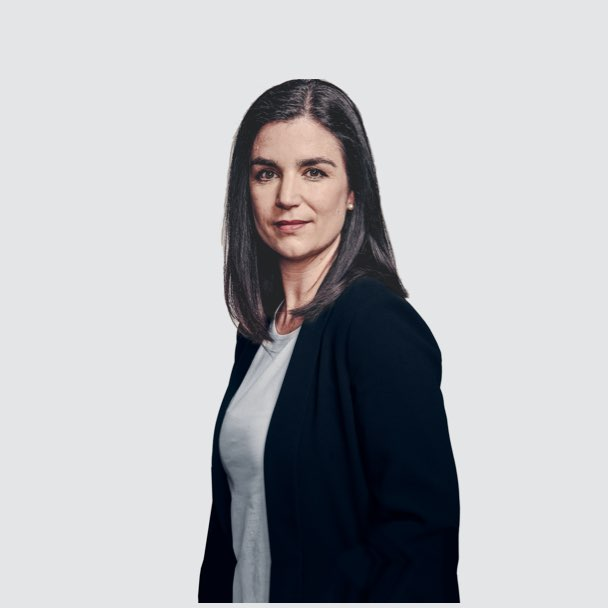
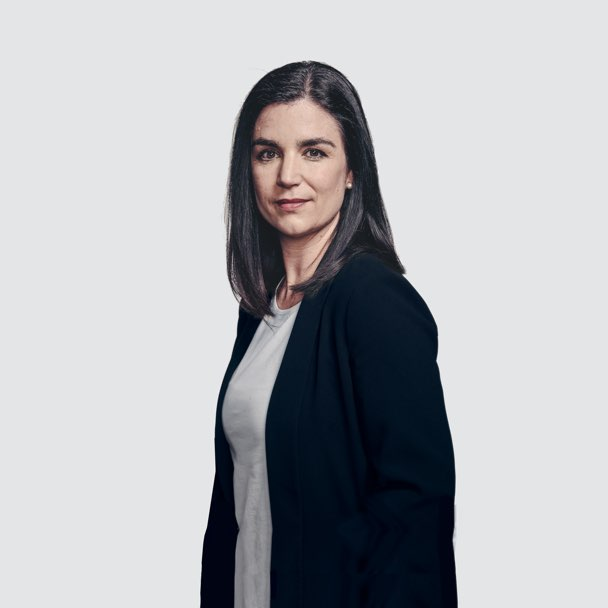
feat: susana pics + markdown, headlines

Changed region(s): [[0.3125, 0.0938, 0.7812, 1.0], [0.7188, 0.5625, 0.75, 0.6562], [0.7188, 0.6875, 0.75, 0.75]]

diff --git a/src/components/Markdown/markdown.scss b/src/components/Markdown/markdown.scss
@@ -35,7 +35,7 @@
   font-weight: 300;
   margin-bottom: 1.5rem;
   padding-top: 0.5rem;
-  padding-right: 9%;
+  padding-right: 10%;
 }
 
 .background--inverse .page-p,

diff --git a/src/content/community/Susana/Susana.md b/src/content/community/Susana/Susana.md
@@ -41,7 +41,7 @@ Born and raised in Spain, in a family of bankers and lawyers, naturally dreamed 
 
 <column md="6" lg="8" offset_lg="1">
 
-The challenge of raising children as working moms is hard enough. But wanting to be a  super successful individual who happens to also be a mom, is altogether more complicated. When we simply see ourselves as working moms (I have not once heard a man refer to himself as a working dad), we are already selling ourselves short. It reads as, “we are moms, who, so sorry, work.” The term seems infused by guilt, by fear, as if we needed to apologize. As women, we sometimes jump to the conclusion that compromise is inevitable, that success will come at the expense of our children’s happiness. That derives from another misconception. We presume that to succeed, one must work “like a man,” keeping long hours, missing out on what happens at home and school.  And that to be a good mom, one cannot expect to do all we need to do at work. We somehow see one has to come at the expense of the other: succeeding at home means not succeeding so much at work, and vice versa. I believe this is a false compromise—if we are able to shape work in a more flexible way, one that is parent friendly. It has bene my experience that model can yield success both at work and at home.
+The challenge of raising children as working moms is hard enough. But wanting to be a super successful individual who happens to also be a mom, is altogether more complicated. When we simply see ourselves as working moms (I have not once heard a man refer to himself as a working dad), we are already selling ourselves short. It reads as, “we are moms, who, so sorry, work.” The term seems infused by guilt, by fear, as if we needed to apologize. As women, we sometimes jump to the conclusion that compromise is inevitable, that success will come at the expense of our children’s happiness. That derives from another misconception. We presume that to succeed, one must work “like a man,” keeping long hours, missing out on what happens at home and school. And that to be a good mom, one cannot expect to do all we need to do at work. We somehow see one has to come at the expense of the other: succeeding at home means not succeeding so much at work, and vice versa. I believe this is a false compromise—if we are able to shape work in a more flexible way, one that is parent friendly. It has bene my experience that model can yield success both at work and at home.
 
 </column>
 </grid>
@@ -55,14 +55,14 @@ The challenge of raising children as working moms is hard enough. But wanting to
 
 <column md="6" lg="8" offset_lg="1">
 
-I would love to see our women designers major on two things. First is embracing their female traits to the fullest, while resisting falling in the role I call “team mom.” Women should absolutely lean into their strong emotional intelligence, intuition, and sensibility, as that will yield incredible results. However, I hope women can do that without having to become the sole nurturers, organizers, cheerleaders, conflict resolvers, happiness keepers. Yes, teams need to be organized and nurtured, but achieving that should be a mission for all, not just women. Lead fully as a woman yet resist the more submissive caretaking role. 
+I would love to see our women designers major on two things. First is embracing their female traits to the fullest, while resisting falling in the role I call “team mom.” Women should absolutely lean into their strong emotional intelligence, intuition, and sensibility, as that will yield incredible results. However, I hope women can do that without having to become the sole nurturers, organizers, cheerleaders, conflict resolvers, happiness keepers. Yes, teams need to be organized and nurtured, but achieving that should be a mission for all, not just women. Lead fully as a woman yet resist the more submissive caretaking role.
 
 My second aspiration for women designers at IBM is to focus on creating brilliant, mind-blowing design. The work in the end will speak for itself, and IBM really will be transformed through the smartest, most innovative, most delightful design.
 
 </column>
 </grid>
 
-<grid className="community__grid" background="gray-10">
+<!-- <grid className="community__grid" background="gray-10">
 <column sm="3" md="3" lg="3">
 
 <span className="community__prompt">What are you doing to make IBM a better place to work for women in design?</span>
@@ -74,7 +74,7 @@ My second aspiration for women designers at IBM is to focus on creating brillian
 Lorem ipsum dolor sit amet, consectetur adipiscing elit, sed do eiusmod tempor incididunt ut labore et dolore magna aliqua. Ut enim ad minim veniam, quis nostrud exercitation ullamco laboris nisi ut aliquip ex ea commodo consequat. Duis aute irure dolor in reprehenderit in voluptate velit esse cillum dolore eu fugiat nulla pariatur. Excepteur sint occaecat cupidatat non proident, sunt in culpa qui officia deserunt mollit anim id est laborum.
 
 </column>
-</grid>
+</grid> -->
 
 <grid className="community__grid" background="gray-10">
 <column sm="3" md="3" lg="3">
@@ -85,9 +85,9 @@ Lorem ipsum dolor sit amet, consectetur adipiscing elit, sed do eiusmod tempor i
 
 <column md="6" lg="8" offset_lg="1">
 
-My story may not be representative of younger women, nor those born in the United States. My Spanish family raised me to marry well, period. That meant that I was not to have my own career, but to support my “very successful” husband. As a woman, I simply needed to be very beautiful, very pleasant, and smart enough to not embarrass my husband. Had I been a man, the expectations would have been very different. I would have been trained to become a leader, first and foremost. 
+My story may not be representative of younger women, nor those born in the United States. My Spanish family raised me to marry well, period. That meant that I was not to have my own career, but to support my “very successful” husband. As a woman, I simply needed to be very beautiful, very pleasant, and smart enough to not embarrass my husband. Had I been a man, the expectations would have been very different. I would have been trained to become a leader, first and foremost.
 
-I am happy to report that I have failed in all the expectations initially set on me. It’s hard to say if my career would have been taken a different path if I had been a man, because perhaps it’s the struggle I had to undertake that gave me the drive to be successful. Maybe the lack of professional expectations is what gave me the freedom to try without fear of failure. Or perhaps, without all the uphill battling, I could have gone much farther, achieved greater impact. 
+I am happy to report that I have failed in all the expectations initially set on me. It’s hard to say if my career would have been taken a different path if I had been a man, because perhaps it’s the struggle I had to undertake that gave me the drive to be successful. Maybe the lack of professional expectations is what gave me the freedom to try without fear of failure. Or perhaps, without all the uphill battling, I could have gone much farther, achieved greater impact.
 
 </column>
 </grid>

diff --git a/src/content/index.md b/src/content/index.md
@@ -3,16 +3,14 @@ title: Homepage
 ---
 
 <title-block fade="true">
-The purpose of<br>
-everything we do<br>
-<span>is to guide the<br>
-people we serve.</span>
+It’s time to change the design game.
+<span>We’re all in.</span>
 </title-block>
 
 <grid background="gray-10">
 <column lg="8" md="5">
 
-<p size="xl">When we blend human-centered design practices with time-tested business acumen, the results speak for themselves.</p>
+<p size="xl">This community of designers is building on their unique journeys with fresh and exciting perspectives that model the change they want to see across IBM.</p>
 
 <icon name="PlexArrowDown"></icon>
 
